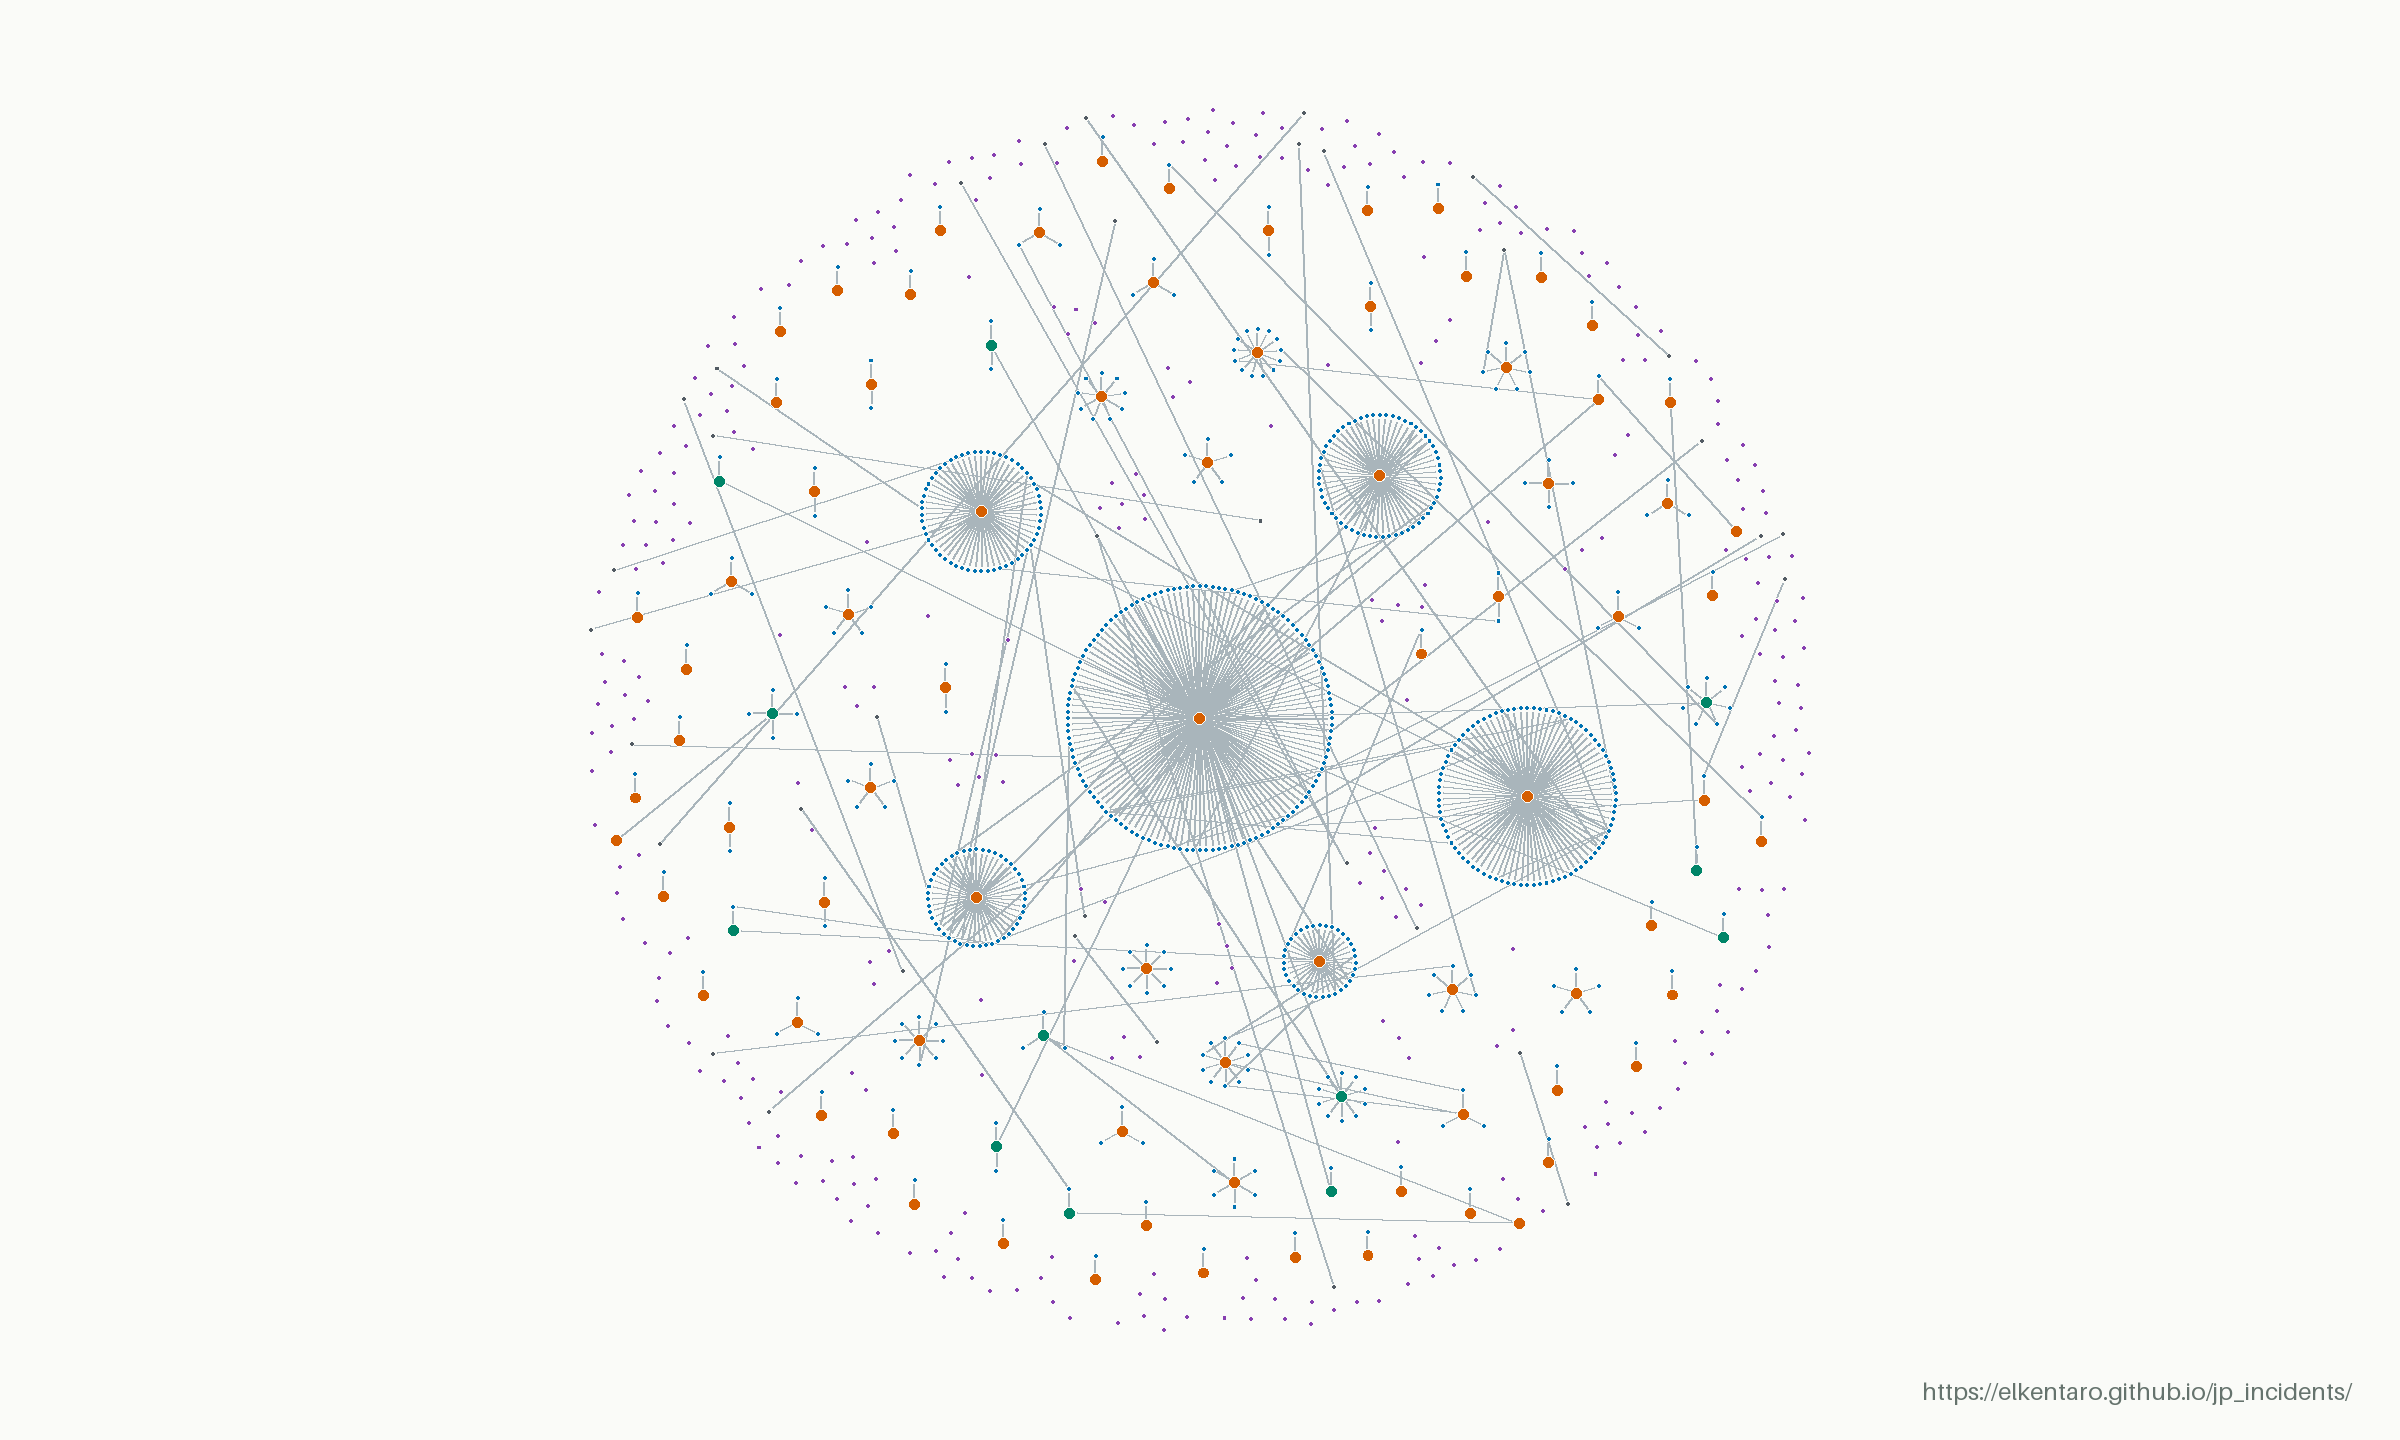
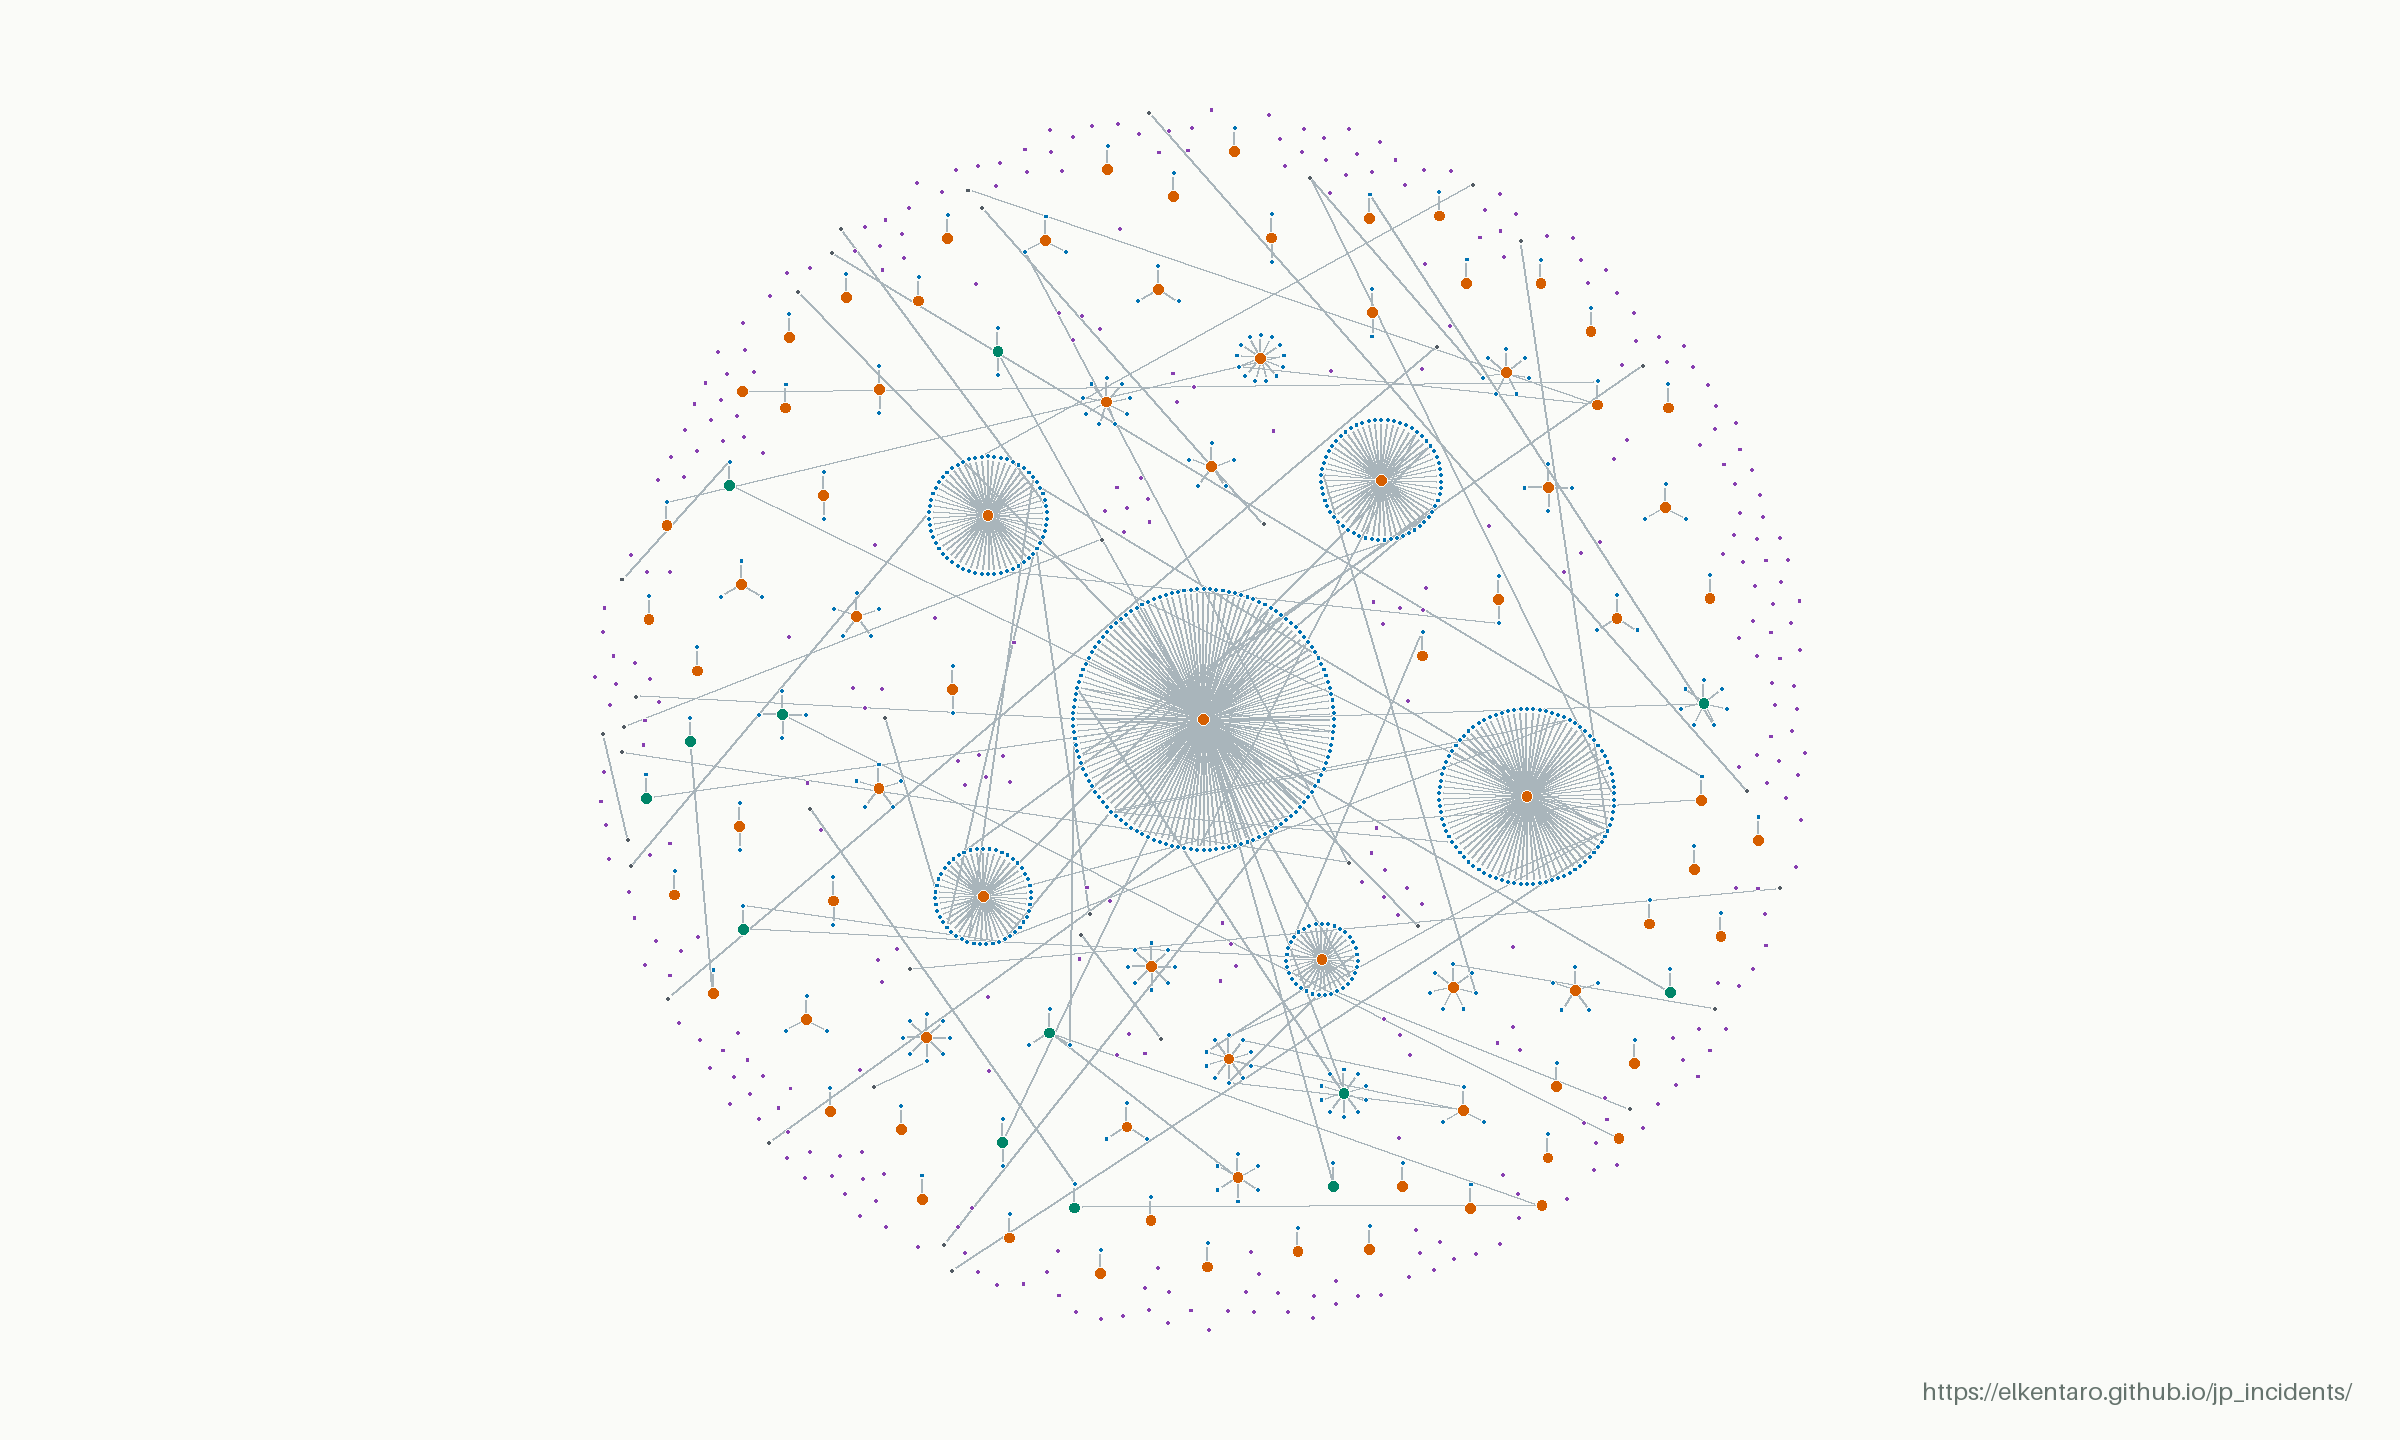
Update incident data (2026-11-11 07:16 UTC)

diff --git a/linkage.html b/linkage.html
@@ -32,31 +32,31 @@
     </section>
     <section class="direct-summary" aria-labelledby="direct-title">
       <dl class="direct-stats">
-        <div class="direct-total"><dt id="direct-title" data-copy="direct">Direct incidents</dt><dd id="direct-count">445</dd></div>
-        <div><dt data-copy="directUpstream">Upstream incidents</dt><dd id="upstream-count">78</dd></div>
+        <div class="direct-total"><dt id="direct-title" data-copy="direct">Direct incidents</dt><dd id="direct-count">446</dd></div>
+        <div><dt data-copy="directUpstream">Upstream incidents</dt><dd id="upstream-count">79</dd></div>
         <div><dt data-copy="directStandalone">Standalone incidents</dt><dd id="standalone-count">367</dd></div>
       </dl>
-      <p class="direct-excluded"><strong id="downstream-count">631</strong> <span data-copy="directExcluded">downstream records excluded, including incidents with both roles.</span></p>
+      <p class="direct-excluded"><strong id="downstream-count">634</strong> <span data-copy="directExcluded">downstream records excluded, including incidents with both roles.</span></p>
       <p class="direct-definition" data-copy="directDefinition">Direct incidents = upstream + standalone, based on recorded causal links. Standalone incidents have no upstream or downstream causal links, but may have other links, such as separate events at the same organization.</p>
     </section>
     <dl class="map-stats">
-      <div><dt data-copy="total">Incidents in snapshot</dt><dd>1076</dd></div>
-      <div><dt data-copy="linked">With recorded connections</dt><dd>745</dd></div>
-      <div><dt data-copy="links">Recorded connections</dt><dd>698</dd></div>
-      <div><dt data-copy="networks">Connected networks</dt><dd>68</dd></div>
+      <div><dt data-copy="total">Incidents in snapshot</dt><dd>1080</dd></div>
+      <div><dt data-copy="linked">With recorded connections</dt><dd>750</dd></div>
+      <div><dt data-copy="links">Recorded connections</dt><dd>702</dd></div>
+      <div><dt data-copy="networks">Connected networks</dt><dd>69</dd></div>
     </dl>
     <figure class="map-figure">
       <div class="map-image">
         <img src="data/linkage-map.png" width="2400" height="1440" alt="Anonymized incident map. Orange upstream hubs connect to blue downstream incidents; purple unlinked incidents appear throughout the same map without connecting lines." data-copy-alt="alt">
       </div>
       <figcaption>
-        <div class="map-caption-meta"><span><span data-copy="updated">Last updated</span>: <time datetime="2026-11-11T06:15:32.967709+00:00">2026-11-11 06:15 UTC</time></span><a href="data/linkage-map.png" target="_blank" rel="noopener" data-copy="open">Open full-resolution image ↗</a></div>
+        <div class="map-caption-meta"><span><span data-copy="updated">Last updated</span>: <time datetime="2026-11-11T07:16:12.671818+00:00">2026-11-11 07:16 UTC</time></span><a href="data/linkage-map.png" target="_blank" rel="noopener" data-copy="open">Open full-resolution image ↗</a></div>
         <div class="map-key-section">
           <strong id="map-key-title" data-copy="key">Key</strong>
           <ul class="map-key" aria-labelledby="map-key-title">
             <li><span class="key-dot upstream" aria-hidden="true"></span><span data-copy="keyUpstream">Upstream</span></li>
             <li><span class="key-dot downstream" aria-hidden="true"></span><span data-copy="keyDownstream">Downstream</span></li>
-            <li><span class="key-dot standalone" aria-hidden="true"></span><span data-copy="keyStandalone">Unlinked</span><span>(331)</span></li>
+            <li><span class="key-dot standalone" aria-hidden="true"></span><span data-copy="keyStandalone">Unlinked</span><span>(330)</span></li>
             <li><span class="key-dot both" aria-hidden="true"></span><span data-copy="keyBoth">Both roles</span></li>
             <li><span class="key-dot related" aria-hidden="true"></span><span data-copy="keyRelated">Other related</span></li>
             <li><span class="key-line" aria-hidden="true"></span><span data-copy="keyRelationship">Recorded relationship</span></li>
@@ -69,7 +69,7 @@
       <section><h2 data-copy="readingTitle">Reading the map</h2><p data-copy="reading">Orange marks upstream incidents, blue downstream incidents, and purple unlinked incidents with no recorded connection. Teal marks incidents with both upstream and downstream roles; charcoal marks other related incidents. A missing connection does not establish that two incidents are unrelated.</p></section>
       <section><h2 data-copy="snapshotTitle">About this snapshot</h2><p data-copy="snapshot">The static image is refreshed when published incidents or relationships change, and at least every 24 hours during normal publication. Larger upstream clusters have extra spacing to keep their victims apart. Names, incident IDs, source links and incident dates are omitted; the connection pattern is retained. It is an overview of recorded relationships, not a complete map of cyber incidents in Japan.</p></section>
     </div>
-    <p class="map-source"><span data-copy="sourceUpdated">Source data updated</span>: <time datetime="2026-11-11T06:15:30+00:00">2026-11-11T06:15:30+00:00</time> · <a href="./" data-copy="browse">Browse the incident index</a></p>
+    <p class="map-source"><span data-copy="sourceUpdated">Source data updated</span>: <time datetime="2026-11-11T07:16:10+00:00">2026-11-11T07:16:10+00:00</time> · <a href="./" data-copy="browse">Browse the incident index</a></p>
   </main>
   <footer><div class="shell footer-inner"><p data-copy="footer">Public reports. Recorded relationships. An anonymized overview.</p><a href="./" data-copy="back">Back to incidents</a></div></footer>
   <script src="linkage.js?v=20261107-spacing" defer></script>
